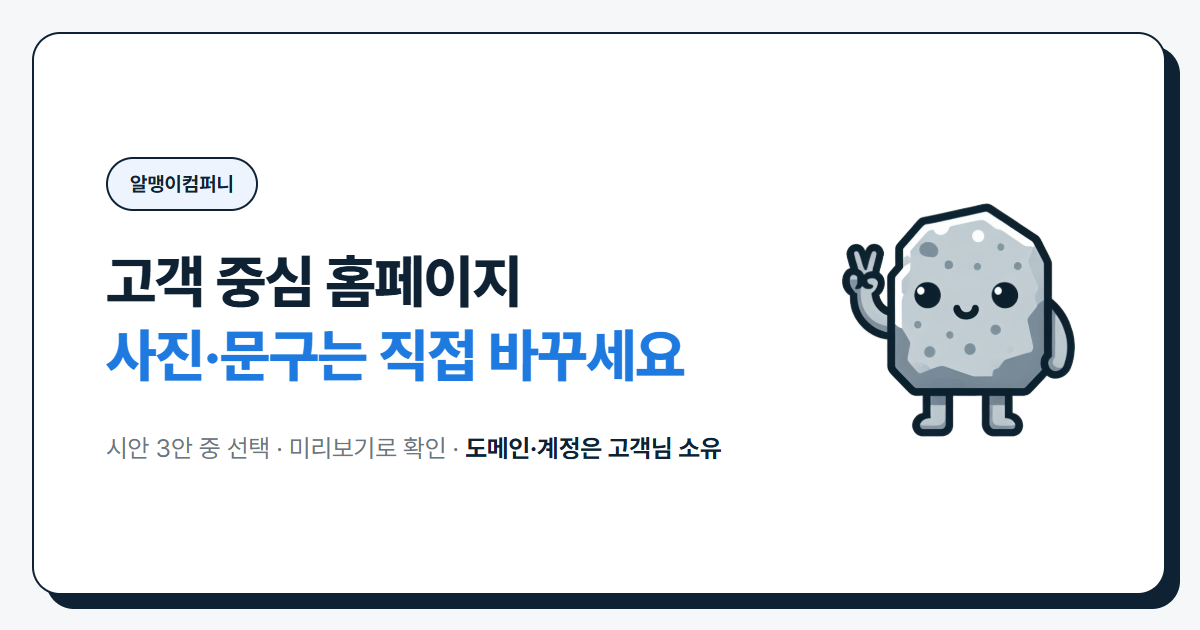
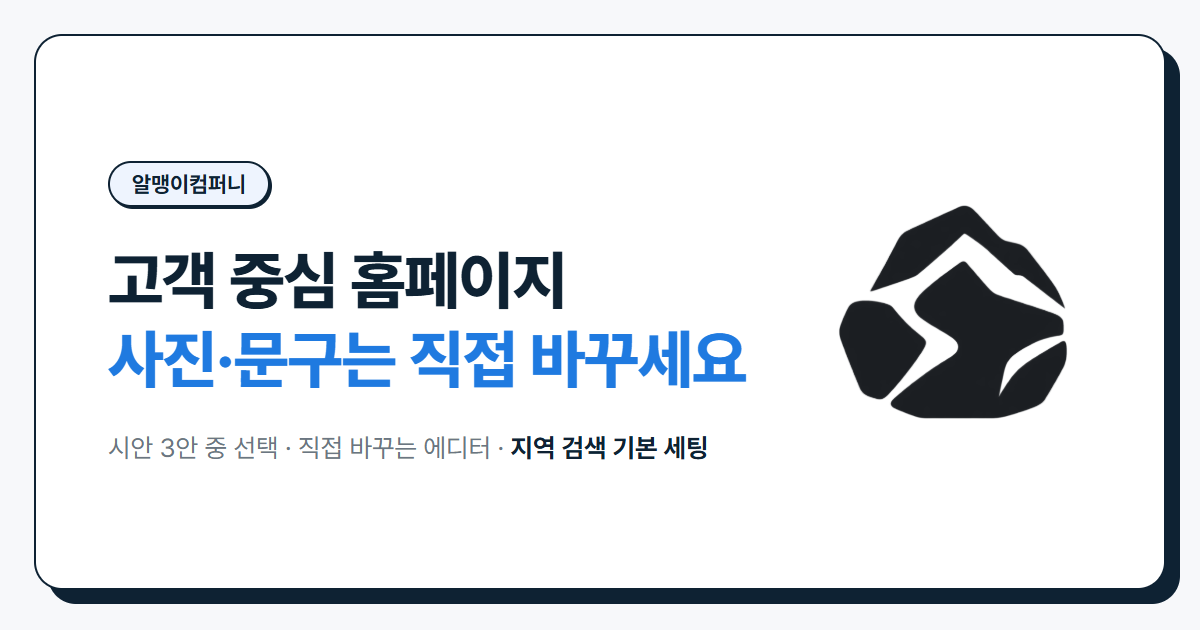
로고 교체, 지역 검색 섹션 추가, 비용 표기 개편

diff --git a/homepage-together/index.html b/homepage-together/index.html
@@ -14,14 +14,15 @@
   <meta property="og:image:width" content="1200">
   <meta property="og:image:height" content="630">
   <link rel="canonical" href="https://rmeng2tv.github.io/proposals/homepage-together/">
-  <link rel="icon" type="image/png" href="../assets/img/logo-symbol.png">
+  <link rel="icon" type="image/png" sizes="32x32" href="../assets/img/favicon-32.png">
+  <link rel="apple-touch-icon" href="../assets/img/apple-touch-icon.png">
   <link rel="stylesheet" href="../assets/css/style.css">
   <script type="application/ld+json">
   {
     "@context": "https://schema.org",
     "@type": "ProfessionalService",
     "name": "알맹이컴퍼니 · 고객 중심 홈페이지 제작",
-    "description": "시안 3안 선택, 비공개 미리보기, 고객용 에디터(사진·초점·배경 어둡기·문구), 도메인·계정·소스 파일 고객 소유를 기본으로 하는 홈페이지 제작. 구축비에 6개월 관리 포함.",
+    "description": "시안 3안 선택, 비공개 미리보기, 고객용 에디터(사진·초점·배경 어둡기·문구), 지역 검색 기본 세팅, 도메인·계정·소스 파일 고객 소유를 기본으로 하는 홈페이지 제작. 구축비에 6개월 관리 포함.",
     "telephone": "+82-10-7614-1536",
     "url": "https://rmeng2tv.github.io/proposals/homepage-together/",
     "areaServed": "KR",
@@ -46,7 +47,7 @@
       {
         "@type": "Question",
         "name": "시안 3개는 어떤 식으로 받나요?",
-        "acceptedAnswer": { "@type": "Answer", "text": "메인 화면처럼 사이트 인상을 정하는 핵심 화면을 방향이 다른 3안으로 만들어, 한 화면에서 버튼으로 바꿔 보며 고르실 수 있게 드립니다. 스타트 요금은 1안과 수정 2회입니다." }
+        "acceptedAnswer": { "@type": "Answer", "text": "메인 화면처럼 사이트 인상을 정하는 핵심 화면을 방향이 다른 3안으로 만들어, 한 화면에서 버튼으로 바꿔 보며 고르실 수 있게 드립니다. 가장 작은 구성은 1안과 수정 2회입니다." }
       },
       {
         "@type": "Question",
@@ -57,6 +58,11 @@
         "@type": "Question",
         "name": "나중에 다른 업체로 옮길 수 있나요?",
         "acceptedAnswer": { "@type": "Answer", "text": "네. 도메인·호스팅은 고객님 명의, 관리자 계정은 고객님 소유이고, 소스 파일과 작업 기록도 드리기 때문에 다른 업체가 이어서 작업할 수 있습니다." }
+      },
+      {
+        "@type": "Question",
+        "name": "만들면 네이버·구글에서 검색되나요?",
+        "acceptedAnswer": { "@type": "Answer", "text": "모든 홈페이지에 지역 검색 기본 세팅(검색엔진이 읽는 업체 정보 표시, 원본 주소 표시, 네이버·구글 검색 등록)을 해 드립니다. 다만 검색 순위는 여러 요소로 정해지기 때문에 특정 순위를 약속드리지는 않습니다. 시·군·구·동 지역별 페이지까지 넓히고 싶으시면 지역 노출형 홈페이지를 함께 안내해 드립니다." }
       },
       {
         "@type": "Question",
@@ -72,8 +78,7 @@
 <header class="alm-header">
   <div class="alm-container alm-header__inner">
     <a class="alm-header__brand" href="#top">
-      <img src="../assets/img/logo-symbol.png" alt="알맹이컴퍼니 조약돌 마스코트" width="36" height="36">
-      <span>알맹이컴퍼니</span>
+      <img src="../assets/img/logo.png" alt="알맹이컴퍼니" width="160" height="28">
     </a>
     <div class="alm-header__actions">
       <a class="alm-header__tel" href="tel:01076141536">010-7614-1536</a>
@@ -100,9 +105,6 @@
           </a>
           <a class="alm-btn alm-btn--secondary" href="editor/interior/">에디터 직접 해보기</a>
         </div>
-      </div>
-      <div class="alm-hero__mascot">
-        <img src="../assets/img/logo-symbol.png" alt="" width="220" height="220">
       </div>
     </div>
   </section>
@@ -255,6 +257,44 @@
 
   <section class="alm-section alm-section--white">
     <div class="alm-container alm-narrow">
+      <p class="alm-pill js-reveal">그리고, 찾아지게</p>
+      <h2 class="alm-h2 js-reveal">만들고 끝이 아니라,<br>우리 동네에서 찾아지게.</h2>
+      <p class="alm-body-lead js-reveal">예쁜 홈페이지도 손님이 못 찾으면 소용없습니다. 지역 검색에 잘 읽히는 기본 구조를 <strong>모든 홈페이지에</strong> 넣어 드립니다.</p>
+      <div class="alm-case__proofs alm-case__proofs--pair js-reveal">
+        <figure>
+          <img src="../assets/img/case/case-internet.png" alt="네이버에서 ‘성동구 인터넷’ 검색 시 최상단에 노출된 운영 사이트 캡처" width="434" height="794" loading="lazy">
+          <figcaption><strong>‘성동구 인터넷’</strong> 네이버 검색 1위<span>2026-08 기준</span></figcaption>
+        </figure>
+        <figure>
+          <img src="../assets/img/case/case-aircon.png" alt="네이버에서 ‘강남 에어컨’ 검색 시 세 자리에 노출된 운영 사이트들 캡처" width="445" height="810" loading="lazy">
+          <figcaption><strong>‘강남 에어컨’</strong> 한 검색어에 3자리<span>2026-08 기준</span></figcaption>
+        </figure>
+      </div>
+      <p class="alm-note alm-note--center js-reveal">알맹이가 직접 운영하는 사이트입니다. 같은 방식으로 설계해 드립니다.</p>
+      <ul class="alm-problem js-reveal">
+        <li>
+          <img src="../assets/icons/check.svg" alt="" width="22" height="22">
+          <span><strong>검색엔진이 읽는 업체 정보 표시</strong>(구조화 데이터)를 모든 페이지에 넣습니다.</span>
+        </li>
+        <li>
+          <img src="../assets/icons/check.svg" alt="" width="22" height="22">
+          <span>주소가 겹쳐 검색에서 빠지는 일이 없도록 <strong>원본 주소 표시</strong>(canonical)를 점검합니다.</span>
+        </li>
+        <li>
+          <img src="../assets/icons/check.svg" alt="" width="22" height="22">
+          <span><strong>네이버 서치어드바이저·구글 서치콘솔</strong>에 사이트를 등록합니다.</span>
+        </li>
+      </ul>
+      <p class="alm-note js-reveal">검색 순위는 약속드리지 않습니다. 검색엔진이 잘 읽을 수 있는 구조를 만들어 드립니다.</p>
+      <div class="alm-demo-cta js-reveal">
+        <p>시·군·구·동 페이지를 늘려<br>더 넓게 찾아지고 싶다면</p>
+        <a class="alm-btn alm-btn--secondary" href="../seo-jiyeok/">지역 노출형 홈페이지 보기</a>
+      </div>
+    </div>
+  </section>
+
+  <section class="alm-section">
+    <div class="alm-container alm-narrow">
       <p class="alm-pill js-reveal">그 다음에도</p>
       <h2 class="alm-h2 js-reveal">업체가 바뀌어도,<br>사이트는 남습니다.</h2>
       <p class="alm-body-lead js-reveal">홈페이지는 몇 년을 쓰는 자산입니다. 저희와 계속 함께하지 않더라도 사이트가 멈추지 않도록, 마지막 날 이 4가지를 넘겨드립니다.</p>
@@ -320,6 +360,7 @@
             <tr><td>시안</td><td>1개를 받아 계속 수정</td><td>방향이 다른 3안 중 선택</td></tr>
             <tr><td>진행 상황</td><td>물어봐야 알 수 있음</td><td>미리보기 주소로 언제든</td></tr>
             <tr><td>수정 요청</td><td>카톡 대화에 흩어짐</td><td>확인 목록으로 정리·공유</td></tr>
+            <tr><td>검색 노출</td><td>만들고 끝</td><td>지역 검색 기본 세팅 포함</td></tr>
             <tr><td>사진·문구 교체</td><td>업체에 요청하고 대기</td><td>에디터로 직접, 바로</td></tr>
             <tr><td>도메인·계정</td><td>업체 명의일 때도 있음</td><td>고객님 명의·고객님 소유</td></tr>
             <tr><td>완성 이후</td><td>그 업체 없이는 손대기 어려움</td><td>소스·매뉴얼·작업 기록 전달</td></tr>
@@ -331,17 +372,19 @@
 
   <section class="alm-section" id="pricing">
     <div class="alm-container">
-      <h2 class="alm-h2 js-reveal">요금</h2>
+      <h2 class="alm-h2 js-reveal">비용</h2>
+      <p class="alm-price-start js-reveal"><strong>300만원부터</strong><span>5페이지 기준 · 부가세 별도</span></p>
+      <p class="alm-body-lead js-reveal">규모와 필요한 기능을 듣고 정확한 견적을 드립니다.</p>
       <div class="alm-pricing">
         <article class="alm-price-card js-reveal">
           <h3>스타트</h3>
           <p class="alm-price-card__tag">작게, 빠르게 시작</p>
-          <p class="alm-price-card__price">300<span>만원</span></p>
           <ul>
             <li><img src="../assets/icons/check.svg" alt="" width="18" height="18">페이지 5개</li>
             <li><img src="../assets/icons/check.svg" alt="" width="18" height="18">시안 1안 + 수정 2회</li>
             <li><img src="../assets/icons/check.svg" alt="" width="18" height="18">비공개 미리보기 + 확인 목록</li>
             <li><img src="../assets/icons/check.svg" alt="" width="18" height="18">에디터: 사진 교체</li>
+            <li><img src="../assets/icons/check.svg" alt="" width="18" height="18">지역 검색 기본 세팅</li>
             <li><img src="../assets/icons/check.svg" alt="" width="18" height="18">쌩초보 가이드</li>
           </ul>
         </article>
@@ -349,19 +392,18 @@
           <span class="alm-badge">추천</span>
           <h3>스탠다드</h3>
           <p class="alm-price-card__tag">고르고, 보고, 직접 바꾸는</p>
-          <p class="alm-price-card__price">500<span>만원</span></p>
           <ul>
             <li><img src="../assets/icons/check.svg" alt="" width="18" height="18">페이지 10개</li>
             <li><img src="../assets/icons/check.svg" alt="" width="18" height="18">시안 3안 중 선택</li>
             <li><img src="../assets/icons/check.svg" alt="" width="18" height="18">비공개 미리보기 + 확인 목록</li>
             <li><img src="../assets/icons/check.svg" alt="" width="18" height="18">에디터: 사진·초점·어둡기·문구</li>
+            <li><img src="../assets/icons/check.svg" alt="" width="18" height="18">지역 검색 기본 세팅</li>
             <li><img src="../assets/icons/check.svg" alt="" width="18" height="18">쌩초보 가이드 + 화상 교육 1회</li>
           </ul>
         </article>
         <article class="alm-price-card js-reveal">
           <h3>프리미엄</h3>
           <p class="alm-price-card__tag">페이지가 많은 회사 사이트</p>
-          <p class="alm-price-card__price alm-price-card__price--text">별도 견적</p>
           <ul>
             <li><img src="../assets/icons/check.svg" alt="" width="18" height="18">스탠다드 전체 포함</li>
             <li><img src="../assets/icons/check.svg" alt="" width="18" height="18">페이지 수 맞춤 + 페이지별 시안</li>
@@ -370,7 +412,7 @@
           </ul>
         </article>
       </div>
-      <p class="alm-pricing__note js-reveal">부가세 별도 · 모든 요금에 "사이트는 남습니다" 4가지 포함 · 구축비에 6개월 관리 포함, 이후 월 관리는 별도 협의(선택 사항)입니다.</p>
+      <p class="alm-pricing__note js-reveal">모든 구성에 "사이트는 남습니다" 4가지 포함 · 구축비에 6개월 관리 포함, 이후 월 관리는 별도 협의(선택 사항)입니다.</p>
     </div>
   </section>
 
@@ -388,7 +430,7 @@
         </details>
         <details>
           <summary>시안 3개는 어떤 식으로 받나요?</summary>
-          <p>메인 화면처럼 사이트 인상을 정하는 핵심 화면을 방향이 다른 3안으로 만들어, 한 화면에서 버튼으로 바꿔 보며 고르실 수 있게 드립니다. 스타트 요금은 1안과 수정 2회입니다.</p>
+          <p>메인 화면처럼 사이트 인상을 정하는 핵심 화면을 방향이 다른 3안으로 만들어, 한 화면에서 버튼으로 바꿔 보며 고르실 수 있게 드립니다. 가장 작은 구성은 1안과 수정 2회입니다.</p>
         </details>
         <details>
           <summary>만드는 중에 수정 요청은 어떻게 하나요?</summary>
@@ -397,6 +439,10 @@
         <details>
           <summary>나중에 다른 업체로 옮길 수 있나요?</summary>
           <p>네. 도메인·호스팅은 고객님 명의, 관리자 계정은 고객님 소유이고, 소스 파일과 작업 기록도 드리기 때문에 다른 업체가 이어서 작업할 수 있습니다.</p>
+        </details>
+        <details>
+          <summary>만들면 네이버·구글에서 검색되나요?</summary>
+          <p>모든 홈페이지에 지역 검색 기본 세팅(검색엔진이 읽는 업체 정보 표시, 원본 주소 표시, 네이버·구글 검색 등록)을 해 드립니다. 다만 검색 순위는 여러 요소로 정해지기 때문에 특정 순위를 약속드리지는 않습니다. 시·군·구·동 지역별 페이지까지 넓히고 싶으시면 지역 노출형 홈페이지를 함께 안내해 드립니다.</p>
         </details>
         <details>
           <summary>완성 후 관리는 언제까지 해주시나요?</summary>
@@ -408,7 +454,6 @@
 
   <section class="alm-section alm-cta">
     <div class="alm-container alm-cta__inner js-reveal">
-      <img src="../assets/img/logo-symbol.png" alt="" width="72" height="72">
       <h2 class="alm-h2">맡기고 기다리는 대신,<br>같이 만들어 보실래요?</h2>
       <p>어떤 홈페이지가 필요한지 카톡으로 편하게 알려주세요.<br>규모와 일정에 맞는 진행 방법을 정리해 드립니다.</p>
       <a class="alm-btn alm-btn--kakao alm-btn--lg" href="https://pf.kakao.com/_epaxbn/chat" target="_blank" rel="noopener">

diff --git a/assets/css/style.css b/assets/css/style.css
@@ -143,14 +143,8 @@ a { color: inherit; }
   padding-top: var(--space-3);
   padding-bottom: var(--space-3);
 }
-.alm-header__brand {
-  display: inline-flex;
-  align-items: center;
-  gap: var(--space-3);
-  font-weight: 800;
-  font-size: 18px;
-  text-decoration: none;
-}
+.alm-header__brand { display: inline-flex; align-items: center; }
+.alm-header__brand img { display: block; height: 28px; width: auto; }
 .alm-header__actions { display: inline-flex; align-items: center; gap: var(--space-5); }
 .alm-header__tel { display: none; font-weight: 700; font-size: var(--fs-sm); text-decoration: none; }
 
@@ -186,17 +180,7 @@ a { color: inherit; }
 .alm-hero__sub { color: var(--fg-2); margin-bottom: var(--space-8); }
 .alm-hero__sub strong { color: var(--fg-1); }
 .alm-hero__actions { display: flex; flex-wrap: wrap; gap: var(--space-4); }
-.alm-hero__mascot { text-align: center; }
-.alm-hero__mascot img { animation: alm-bob 3.2s ease-in-out infinite; }
-
-@keyframes alm-bob {
-  0%, 100% { transform: translateY(0); }
-  50% { transform: translateY(-12px); }
-}
-
-@media (min-width: 768px) {
-  .alm-hero__grid { grid-template-columns: 1.6fr 1fr; }
-}
+.alm-hero__copy { max-width: 820px; }
 
 /* ---------- 섹션 공통 ---------- */
 .alm-section { padding: var(--space-16) 0; }
@@ -313,6 +297,13 @@ a { color: inherit; }
 @media (min-width: 768px) {
   .alm-case__proofs { grid-template-columns: repeat(2, minmax(0, 1fr)); align-items: start; }
 }
+
+/* 검색 결과 캡처 2장: 휴대폰에서도 나란히 */
+.alm-case__proofs--pair { grid-template-columns: repeat(2, minmax(0, 1fr)); gap: var(--space-4); max-width: 560px; margin: 0 auto var(--space-4); }
+.alm-case__proofs--pair img { box-shadow: var(--shadow-sticker-sm); }
+.alm-case__proofs--pair figcaption { font-size: 13px; line-height: 1.5; }
+.alm-note { margin-bottom: var(--space-8); font-size: var(--fs-sm); color: var(--fg-2); }
+.alm-note--center { text-align: center; }
 
 /* ---------- 포트폴리오 캐러셀 ---------- */
 .alm-portfolio { overflow-x: auto; scroll-snap-type: x mandatory; -webkit-overflow-scrolling: touch; padding-bottom: var(--space-2); }
@@ -443,6 +434,9 @@ a { color: inherit; }
 }
 
 /* ---------- 요금 ---------- */
+.alm-price-start { margin-bottom: var(--space-3); }
+.alm-price-start strong { display: block; font-size: var(--fs-h2); font-weight: 800; line-height: 1.2; letter-spacing: -0.02em; color: var(--sky-700); }
+.alm-price-start span { font-size: var(--fs-sm); color: var(--fg-2); }
 .alm-pricing { display: grid; grid-template-columns: 1fr; gap: var(--space-6); align-items: start; }
 .alm-price-card {
   position: relative;
@@ -588,7 +582,6 @@ a { color: inherit; }
 
 @media (prefers-reduced-motion: reduce) {
   html { scroll-behavior: auto; }
-  .alm-hero__mascot img { animation: none; }
   .js-reveal { opacity: 1; transform: none; transition: none; }
   .alm-btn, .alm-card { transition: none; }
 }

diff --git a/seo-jiyeok/index.html b/seo-jiyeok/index.html
@@ -14,7 +14,8 @@
   <meta property="og:image:width" content="1200">
   <meta property="og:image:height" content="630">
   <link rel="canonical" href="https://rmeng2tv.github.io/proposals/seo-jiyeok/">
-  <link rel="icon" type="image/png" href="../assets/img/logo-symbol.png">
+  <link rel="icon" type="image/png" sizes="32x32" href="../assets/img/favicon-32.png">
+  <link rel="apple-touch-icon" href="../assets/img/apple-touch-icon.png">
   <link rel="stylesheet" href="../assets/css/style.css">
   <script type="application/ld+json">
   {
@@ -77,8 +78,7 @@
 <header class="alm-header">
   <div class="alm-container alm-header__inner">
     <a class="alm-header__brand" href="#top">
-      <img src="../assets/img/logo-symbol.png" alt="알맹이컴퍼니 조약돌 마스코트" width="36" height="36">
-      <span>알맹이컴퍼니</span>
+      <img src="../assets/img/logo.png" alt="알맹이컴퍼니" width="160" height="28">
     </a>
     <div class="alm-header__actions">
       <a class="alm-header__tel" href="tel:01076141536">010-7614-1536</a>
@@ -105,9 +105,6 @@
           </a>
           <a class="alm-btn alm-btn--secondary" href="#pricing">요금 보기</a>
         </div>
-      </div>
-      <div class="alm-hero__mascot">
-        <img src="../assets/img/logo-symbol.png" alt="" width="220" height="220">
       </div>
     </div>
   </section>
@@ -392,7 +389,6 @@
 
   <section class="alm-section alm-cta">
     <div class="alm-container alm-cta__inner js-reveal">
-      <img src="../assets/img/logo-symbol.png" alt="" width="72" height="72">
       <h2 class="alm-h2">내 업체는 지역 검색에서<br>얼마나 보이고 있을까요?</h2>
       <p>업종과 활동 지역만 카톡으로 알려주세요.<br>어떤 지역 검색어를 가져올 수 있는지, 무엇을 보완해야 하는지<br>무료로 진단해드립니다.</p>
       <a class="alm-btn alm-btn--kakao alm-btn--lg" href="https://pf.kakao.com/_epaxbn/chat" target="_blank" rel="noopener">

diff --git a/shopping-mall/index.html b/shopping-mall/index.html
@@ -14,7 +14,8 @@
   <meta property="og:image:width" content="1200">
   <meta property="og:image:height" content="630">
   <link rel="canonical" href="https://rmeng2tv.github.io/proposals/shopping-mall/">
-  <link rel="icon" type="image/png" href="../assets/img/logo-symbol.png">
+  <link rel="icon" type="image/png" sizes="32x32" href="../assets/img/favicon-32.png">
+  <link rel="apple-touch-icon" href="../assets/img/apple-touch-icon.png">
   <link rel="stylesheet" href="../assets/css/style.css">
   <script type="application/ld+json">
   {
@@ -72,8 +73,7 @@
 <header class="alm-header">
   <div class="alm-container alm-header__inner">
     <a class="alm-header__brand" href="#top">
-      <img src="../assets/img/logo-symbol.png" alt="알맹이컴퍼니 조약돌 마스코트" width="36" height="36">
-      <span>알맹이컴퍼니</span>
+      <img src="../assets/img/logo.png" alt="알맹이컴퍼니" width="160" height="28">
     </a>
     <div class="alm-header__actions">
       <a class="alm-header__tel" href="tel:01076141536">010-7614-1536</a>
@@ -100,9 +100,6 @@
           </a>
           <a class="alm-btn alm-btn--secondary" href="#pricing">요금 보기</a>
         </div>
-      </div>
-      <div class="alm-hero__mascot">
-        <img src="../assets/img/logo-symbol.png" alt="" width="220" height="220">
       </div>
     </div>
   </section>
@@ -333,7 +330,6 @@
 
   <section class="alm-section alm-cta">
     <div class="alm-container alm-cta__inner js-reveal">
-      <img src="../assets/img/logo-symbol.png" alt="" width="72" height="72">
       <h2 class="alm-h2">내 쇼핑몰,<br>어떤 방식으로 시작해야 할까요?</h2>
       <p>팔고 싶은 상품과 예산만 카톡으로 알려주세요.<br>카페24·워드프레스·맞춤 제작 중 어떤 게 맞는지<br>무료로 진단해드립니다.</p>
       <a class="alm-btn alm-btn--kakao alm-btn--lg" href="https://pf.kakao.com/_epaxbn/chat" target="_blank" rel="noopener">

diff --git a/homepage-together/guide/index.html b/homepage-together/guide/index.html
@@ -14,7 +14,8 @@
   <meta property="og:image:width" content="1200">
   <meta property="og:image:height" content="630">
   <link rel="canonical" href="https://rmeng2tv.github.io/proposals/homepage-together/guide/">
-  <link rel="icon" type="image/png" href="../../assets/img/logo-symbol.png">
+  <link rel="icon" type="image/png" sizes="32x32" href="../../assets/img/favicon-32.png">
+  <link rel="apple-touch-icon" href="../../assets/img/apple-touch-icon.png">
   <link rel="stylesheet" href="../../assets/css/style.css">
   <link rel="stylesheet" href="../../assets/css/guide.css">
 </head>
@@ -23,8 +24,7 @@
 <header class="alm-header">
   <div class="alm-container alm-header__inner">
     <a class="alm-header__brand" href="../">
-      <img src="../../assets/img/logo-symbol.png" alt="알맹이컴퍼니 조약돌 마스코트" width="36" height="36">
-      <span>알맹이컴퍼니</span>
+      <img src="../../assets/img/logo.png" alt="알맹이컴퍼니" width="160" height="28">
     </a>
     <div class="alm-header__actions">
       <a class="alm-header__tel" href="tel:01076141536">010-7614-1536</a>

diff --git a/homepage-together/editor/interior/index.html b/homepage-together/editor/interior/index.html
@@ -14,7 +14,8 @@
   <meta property="og:image:width" content="1200">
   <meta property="og:image:height" content="630">
   <link rel="canonical" href="https://rmeng2tv.github.io/proposals/homepage-together/editor/interior/">
-  <link rel="icon" type="image/png" href="../../../assets/img/logo-symbol.png">
+  <link rel="icon" type="image/png" sizes="32x32" href="../../../assets/img/favicon-32.png">
+  <link rel="apple-touch-icon" href="../../../assets/img/apple-touch-icon.png">
   <link rel="stylesheet" href="../../../assets/css/style.css">
   <link rel="stylesheet" href="../../../assets/css/editor-demo.css">
 </head>
